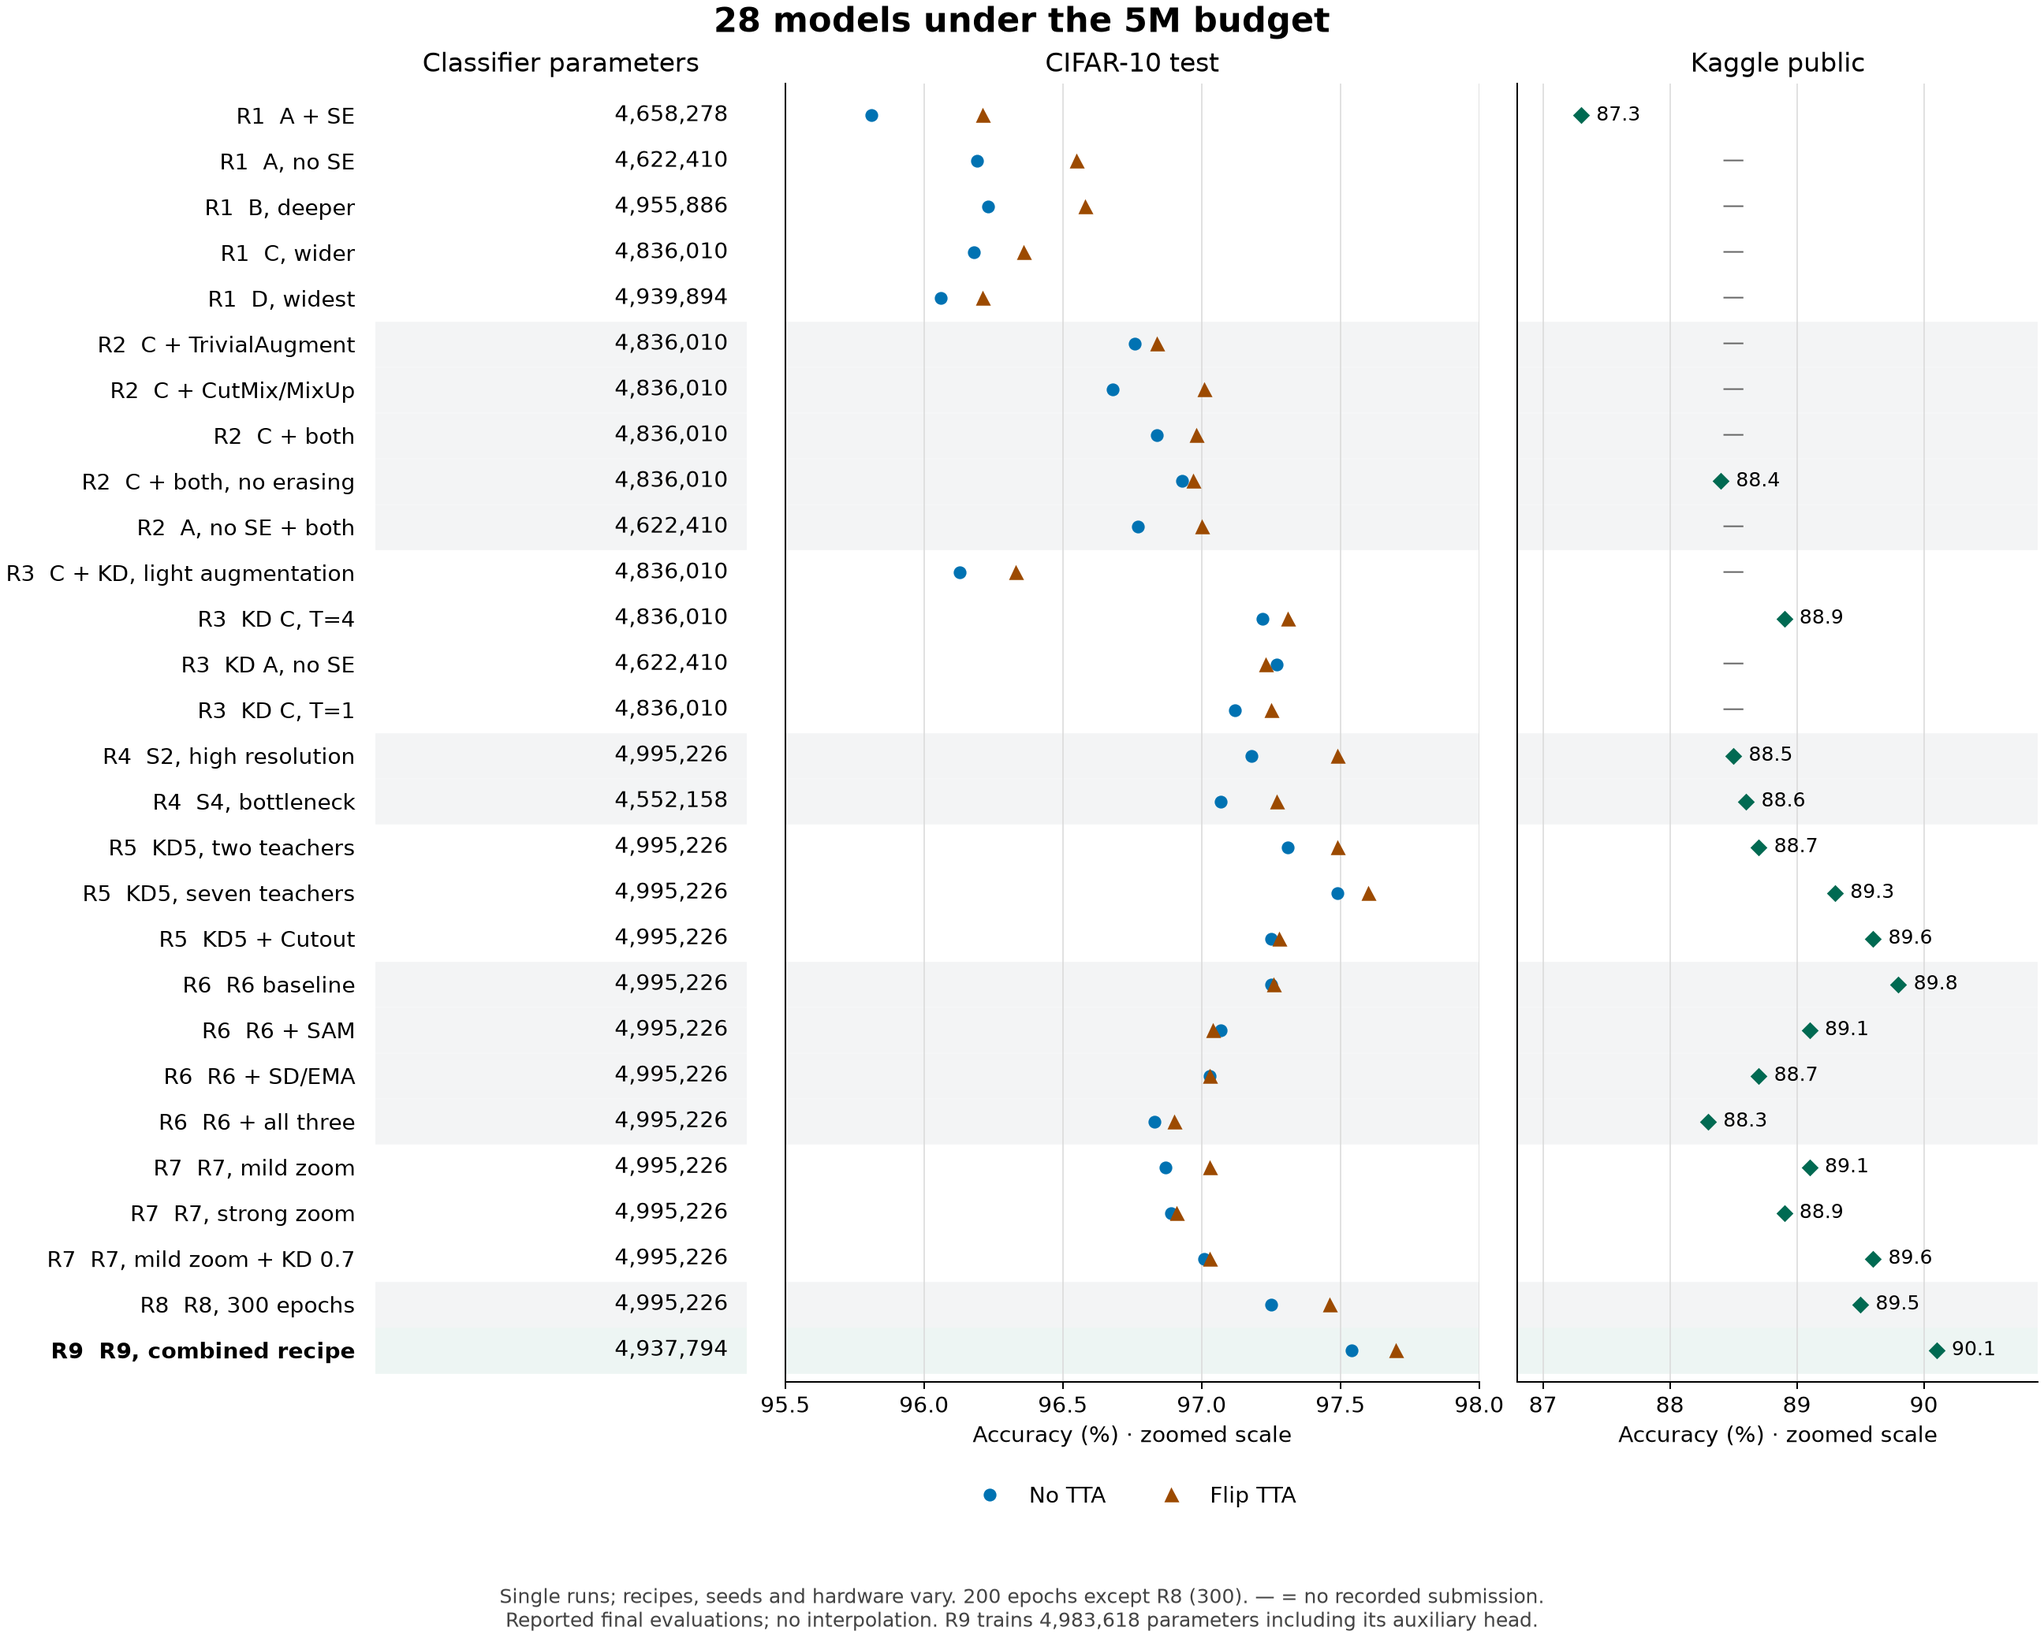
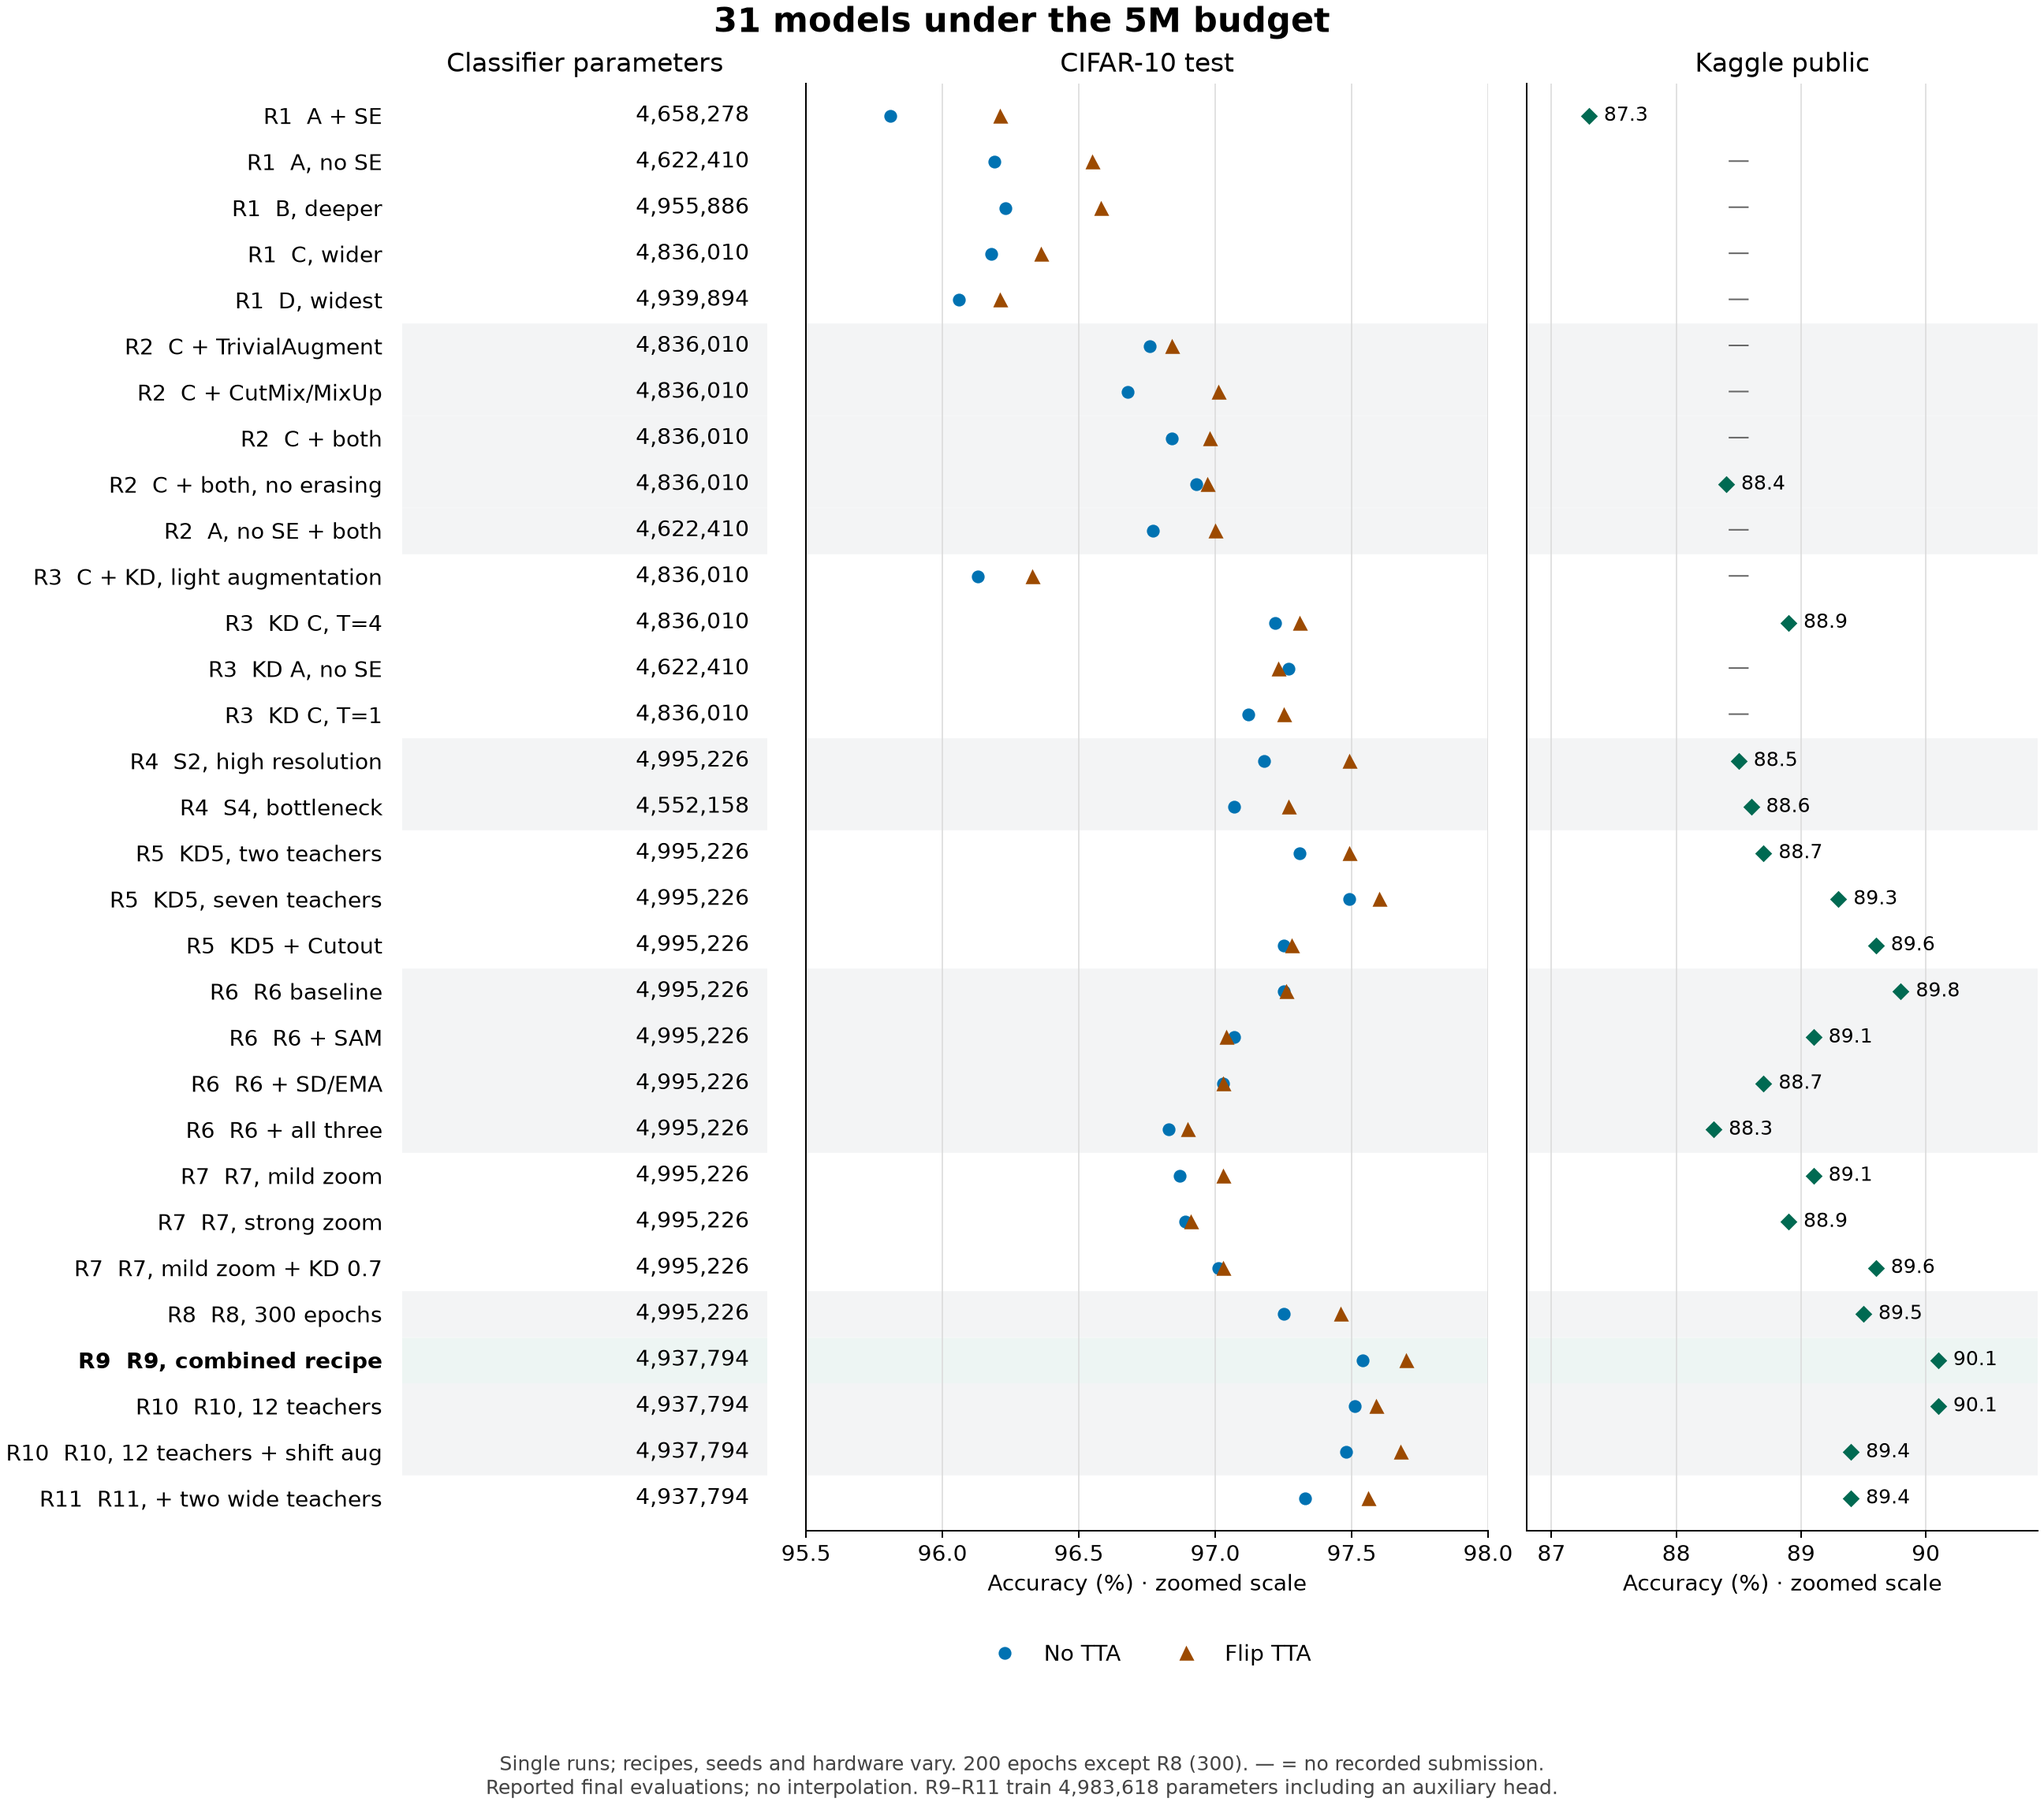
Compare all 31 model runs

diff --git a/scripts/plot_experiments.py b/scripts/plot_experiments.py
@@ -18,16 +18,16 @@ ROOT = Path(__file__).resolve().parents[1]
 def main():
     data = json.loads((ROOT / "assets/experiments.json").read_text())
     runs = data["runs"]
-    assert len(runs) == 28 and len({r["run"] for r in runs}) == 28
+    assert len(runs) == 31 and len({r["run"] for r in runs}) == len(runs)
     assert all(0 < r["parameters"] <= r["total_training_parameters"] <= 5_000_000 for r in runs)
     assert all(0 <= r[key] <= 100 for r in runs for key in ["cifar10_final_percent", "cifar10_flip_percent"])
     assert all(r["kaggle_public"] is None or 0 <= r["kaggle_public"] <= 1 for r in runs)
 
     with plt.rc_context({"font.size": 11, "axes.spines.top": False, "axes.spines.right": False}):
-        fig, axes = plt.subplots(1, 3, figsize=(14.4, 11.6), sharey=True,
+        fig, axes = plt.subplots(1, 3, figsize=(14.4, 12.8), sharey=True,
                                  gridspec_kw={"width_ratios": [0.75, 1.4, 1.05]}, layout="constrained")
         params, cifar, kaggle = axes
-        fig.suptitle("28 models under the 5M budget", fontsize=17, fontweight="bold")
+        fig.suptitle(f"{len(runs)} models under the 5M budget", fontsize=17, fontweight="bold")
         for y, r in enumerate(runs):
             if r["round"] % 2 == 0 or r["round"] == 9:
                 for ax in axes:
@@ -61,7 +61,7 @@ def main():
         fig.get_layout_engine().set(rect=(0, 0.075, 1, 0.925))
         fig.text(0.5, 0.022,
                  "Single runs; recipes, seeds and hardware vary. 200 epochs except R8 (300). — = no recorded submission.\n"
-                 "Reported final evaluations; no interpolation. R9 trains 4,983,618 parameters including its auxiliary head.",
+                 "Reported final evaluations; no interpolation. R9–R11 train 4,983,618 parameters including an auxiliary head.",
                  ha="center", va="center", fontsize=10, color="#444444")
         fig.savefig(ROOT / "assets/all-models.png", dpi=180, facecolor="white")
         plt.close(fig)
@@ -73,8 +73,13 @@ def main():
               "|---|---|---:|---:|---:|---:|---:|---|"]
     for r in runs:
         score = "—" if r["kaggle_public"] is None else f'{r["kaggle_public"]:.3f}'
-        url = f'https://github.com/buddhsen-tripathi/resnet-5m/releases/download/{r["release"]}/{r["run"]}.pt'
-        lines.append(f'| {r["round"]} | [{r["run"]}]({url}) | {r["parameters"]:,} | {r["epochs"]} | '
+        if r["release"]:
+            name = f'[{r["run"]}](https://github.com/buddhsen-tripathi/resnet-5m/releases/download/{r["release"]}/{r["run"]}.pt)'
+        elif r.get("weights"):
+            name = f'[{r["run"]}](../{r["weights"]})'
+        else:
+            name = r["run"]
+        lines.append(f'| {r["round"]} | {name} | {r["parameters"]:,} | {r["epochs"]} | '
                      f'{r["cifar10_final_percent"]:.2f} | {r["cifar10_flip_percent"]:.2f} | {score} | '
                      f'[source](../{r["source"]}) |')
     (ROOT / "docs/model-comparison.md").write_text("\n".join(lines) + "\n")

diff --git a/docs/model-comparison.md b/docs/model-comparison.md
@@ -2,15 +2,16 @@
 
 Generated from [`assets/experiments.json`](../assets/experiments.json) by [`scripts/plot_experiments.py`](../scripts/plot_experiments.py).
 
-- 28 completed single-model training runs; 60-epoch architecture screens and teacher ensembles excluded.
+- 31 completed single-model training runs; 60-epoch architecture screens, teacher ensembles and the two over-budget round 11 teachers excluded.
 - Values reproduce the round tables in README.md; each run uses its recorded evaluation protocol.
 - No-TTA values generally come from mixed-precision training evaluation; R8 and R9 use final full-precision evaluation.
 - R6 is 97.25% in its original training log and 97.26% in the later H200 full-precision re-evaluation.
-- Kaggle scores refer to the recorded standard flip-TTA submission; alternative zoom/shift submissions are excluded.
+- Kaggle scores refer to the recorded standard flip-TTA submission; alternative zoom/shift, BatchNorm-adaptation and balanced-decoding submissions are excluded.
 - Missing Kaggle scores mean no recorded submission for that checkpoint and protocol.
 - Seeds, hardware, augmentation and teachers vary across rounds; these are individual runs, not controlled comparisons or multi-seed estimates.
 - The public leaderboard scores 1,000 images (50%); the other 1,000 form the private split.
-- Parameter counts refer to the inference classifier. R9 also trains a 45,824-parameter projection head; its total remains below 5M.
+- Parameter counts refer to the inference classifier. R9, R10 and R11 also train a 45,824-parameter projection head; their totals remain below 5M.
+- Round 10 and 11 checkpoints are not release assets; R10_t12's inference export is in weights/.
 
 | Round | Checkpoint | Classifier parameters | Epochs | CIFAR-10 final (%) | Flip TTA (%) | Kaggle public | Record |
 |---|---|---:|---:|---:|---:|---:|---|
@@ -42,3 +43,6 @@ Generated from [`assets/experiments.json`](../assets/experiments.json) by [`scri
 | 7 | [R7_zoom_a7](https://github.com/buddhsen-tripathi/resnet-5m/releases/download/v0.2/R7_zoom_a7.pt) | 4,995,226 | 200 | 97.01 | 97.03 | 0.896 | [source](../logs/7-zoom/R7_zoom_a7.log) |
 | 8 | [R8_base_300](https://github.com/buddhsen-tripathi/resnet-5m/releases/download/v0.3/R8_base_300.pt) | 4,995,226 | 300 | 97.25 | 97.46 | 0.895 | [source](../logs/8-duration/R8_base_300.log) |
 | 9 | [R9_combined](https://github.com/buddhsen-tripathi/resnet-5m/releases/download/v0.3/R9_combined.pt) | 4,937,794 | 200 | 97.54 | 97.70 | 0.901 | [source](../logs/9-combined/R9_combined.log) |
+| 10 | [R10_t12](../weights/R10_t12.pt) | 4,937,794 | 200 | 97.51 | 97.59 | 0.901 | [source](../logs/10-shift/R10_t12.log) |
+| 10 | R10_shift | 4,937,794 | 200 | 97.48 | 97.68 | 0.894 | [source](../logs/10-shift/R10_shift.log) |
+| 11 | R11_wide | 4,937,794 | 200 | 97.33 | 97.56 | 0.894 | [source](../logs/11-wide-teachers/R11_wide.log) |
